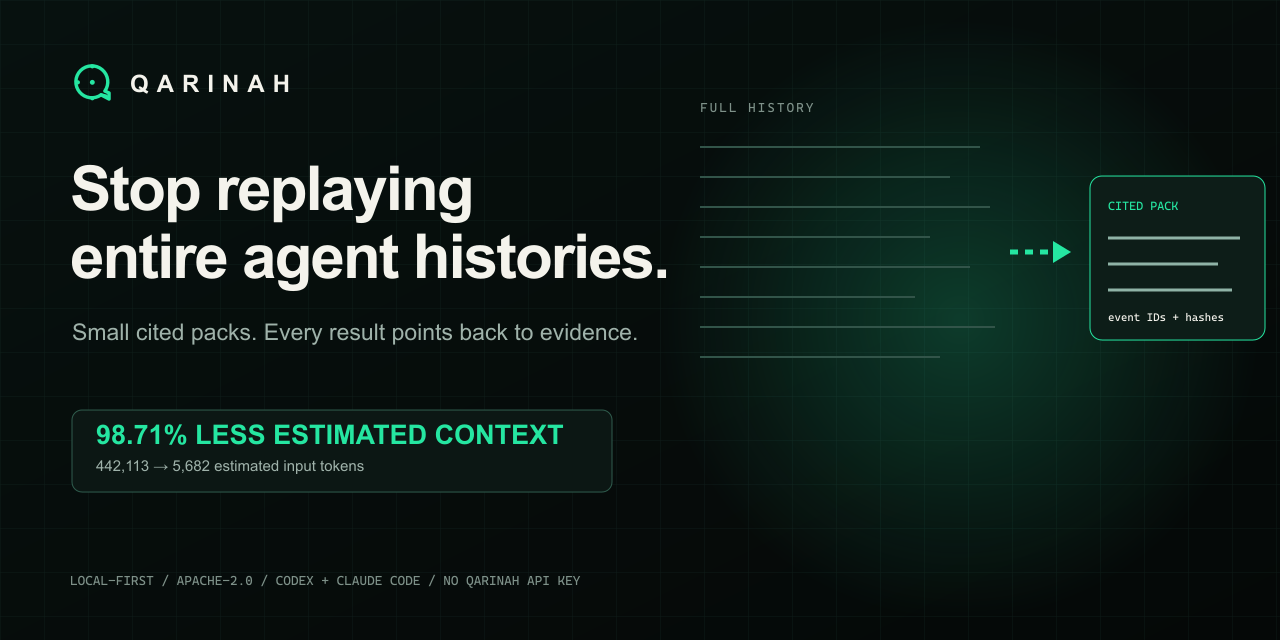
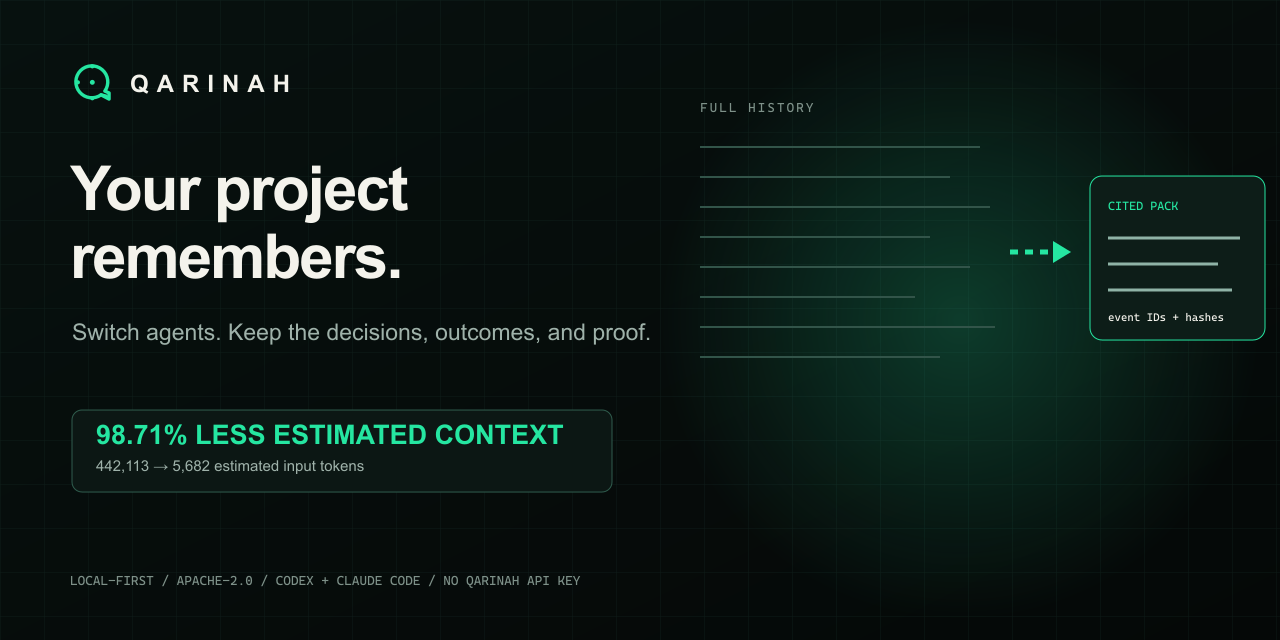
docs: make Qarinah promise memorable (#82)

Changed region(s): [[0.0625, 0.25, 0.5312, 0.4688], [0.0625, 0.5, 0.5, 0.5312]]

diff --git a/docs/launch/PLATFORM-COPY.md b/docs/launch/PLATFORM-COPY.md
@@ -4,11 +4,11 @@ Do not publish these drafts until the gates in [../LAUNCH.md](../LAUNCH.md) are 
 
 ## Canonical descriptions
 
-**Headline:** Switch coding agents without starting over.
+**Headline:** Your project remembers, even when your coding agent changes.
 
-**Category:** The evidence-linked cross-agent context engine for software projects.
+**Category:** Evidence-linked project memory that stays with your code.
 
-**Tagline:** Verified handoffs between coding agents.
+**Tagline:** Switch agents. Keep the decisions, outcomes, and proof.
 
 **Proof tagline:** Nearly 99% less repeated project context. Every selected memory points back to its source.
 
@@ -16,9 +16,9 @@ Do not publish these drafts until the gates in [../LAUNCH.md](../LAUNCH.md) are 
 
 **Coding value line:** Less replay. More room for current code, tools, and cited project memory.
 
-**GitHub About:** Universal context engine for software projects with verified, cited handoffs between coding agents.
+**GitHub About:** Your project remembers across Codex, Claude Code, Cursor, and compatible tools - with compact, cited handoffs.
 
-**npm description:** Cross-agent context engine with verified handoffs and 98.71% less estimated repeated context in its published benchmark.
+**npm description:** Project memory that follows your code across agents, with cited handoffs and 98.71% less estimated repeated context in its published benchmark.
 
 **Short:** Qarinah is a universal context engine for software projects. It records permitted activity and explicit decisions in an evidence-linked ledger, then compiles a small cited handoff for the next agent. Maqam is an optional governance integration, not a requirement.
 
@@ -42,9 +42,9 @@ Possible factual title to rewrite:
 
 **Name:** Qarinah
 
-**Tagline:** Use your biggest coding model with compact, cited project memory
+**Tagline:** Your project remembers when your coding agent changes
 
-**Description (under 260 characters):** Switch coding agents without starting over. Qarinah is the evidence-linked cross-agent context engine for software projects. Works locally with Codex, Claude Code, Cursor, CLI, and compatible MCP clients.
+**Description (under 260 characters):** Switch agents without restarting the story. Qarinah keeps compact, cited project memory beside your code for Codex, Claude Code, Cursor, CLI, and compatible MCP clients.
 
 **Topics:** Developer Tools, Artificial Intelligence, Open Source, Productivity
 
@@ -100,6 +100,6 @@ I would value a reproducible missing-evidence case or a critique of the consent,
 
 ## YouTube
 
-**Title:** Stop replaying agent histories | Qarinah in 60 seconds
+**Title:** Your project remembers | Qarinah in 60 seconds
 
 **Description:** Qarinah records permitted project activity and explicit decisions in a local evidence-linked ledger, then compiles a small cited context pack for the next agent task. This demo shows opt-in, one decision, project scan, deterministic build, direct-evidence retrieval, and doctor verification. Benchmark method and limitations: [ADD PUBLIC URL AFTER RELEASE]

diff --git a/docs/LAUNCH.md b/docs/LAUNCH.md
@@ -1,12 +1,12 @@
 # Qarinah launch runbook
 
-Qarinah 0.1.0 is the first stable open-source release. Publish only the exact artifact produced from the reviewed release commit, then verify the public package, tag, provenance, website, and plugin installs against that identity.
+Qarinah 0.1.0 was the first stable open-source release. For every later release, publish only the exact artifact produced from the reviewed release commit, then verify the public package, tag, provenance, website, and plugin installs against that identity.
 
 ## Launch message
 
-> Stop replaying entire agent histories.
+> Your project remembers, even when your coding agent changes.
 
-Switch coding agents without starting over. Qarinah is the evidence-linked cross-agent context engine for software projects. It turns permitted project activity and explicit decisions into small, cited handoff packs. It used 98.71% less estimated context than full-history replay while keeping every required target in the top five with direct evidence coverage. The estimate is `ceil(characters / 4)`, not provider billing or a universal cost claim.
+Switch agents. Keep the decisions, outcomes, and proof. Qarinah keeps one compact, cited project memory beside your code. Its published six-task benchmark used 98.71% less estimated context than full-history replay while keeping every required target in the top five with direct evidence coverage. The estimate is `ceil(characters / 4)`, not provider billing or a universal cost claim.
 
 The complete channel copy, media assignments, and claims gate are in [`docs/launch/`](launch/README.md).
 
@@ -50,7 +50,8 @@ The complete channel copy, media assignments, and claims gate are in [`docs/laun
 
 Use:
 
-- "Stop replaying entire agent histories."
+- "Your project remembers, even when your coding agent changes."
+- "Switch agents. Keep the decisions, outcomes, and proof."
 - "Qarinah - less context. More proof."
 - "Small cited context packs instead of entire transcripts."
 - "Local-first and no Qarinah API key."

diff --git a/README.md b/README.md
@@ -1,14 +1,13 @@
 <p align="center">
-  <img src="assets/brand/qarinah-mark.svg" width="112" alt="Qarinah logo">
+  <img src="assets/launch/qarinah-social-preview.svg" width="100%" alt="Qarinah - your project remembers across coding agents">
 </p>
 
 <h1 align="center">Qarinah</h1>
 
-<p align="center"><em>Switch coding agents without starting over.</em></p>
-<p align="center"><strong>The evidence-linked cross-agent context engine for software projects.</strong></p>
+<p align="center"><em>Switch agents. Keep the decisions, outcomes, and proof.</em></p>
 
 <p align="center">
-  Qarinah lets Codex, Claude Code, Cursor, and other coding agents continue the same project using a shared, cited record of decisions, outcomes, code relationships, and current evidence.
+  Qarinah keeps one compact, cited project memory beside your code, so Codex, Claude Code, Cursor, and compatible tools can continue from verified context instead of starting from zero.
 </p>
 
 <p align="center">
@@ -28,7 +27,9 @@
 </p>
 
 <p align="center">
-  <strong>Verified handoffs between coding agents.</strong>
+  <strong>98.71% less estimated repeated context in the published six-task benchmark.</strong><br>
+  442,113 &rarr; 5,682 estimated input-context tokens, with every required target directly covered in the top five.
+  <a href="docs/BENCHMARKS.md">Inspect the method and limits.</a>
 </p>
 
 ```sh
@@ -43,12 +44,6 @@ npx qarinah setup . --codex --claude --cursor --capture content --allow-query
 
 <p align="center">
   Run the setup command once from a repository. It installs project-local integrations and consent-gated MCP retrieval for that exact workspace. Qarinah works as an independent local tool; Maqam is an optional governance integration for higher-authority workflows.
-</p>
-
-<p align="center">
-  <strong>98.71% fewer estimated repeated-project-context tokens - 77.81:1 compression.</strong><br>
-  442,113 &rarr; 5,682 estimated input tokens.
-  <a href="docs/BENCHMARKS.md">Reproduce the published benchmark.</a>
 </p>
 
 ---

diff --git a/docs/BENCHMARKS.md b/docs/BENCHMARKS.md
@@ -2,6 +2,20 @@
 
 Qarinah reports context-volume and retrieval-regression measurements. It does not convert character estimates into claims about provider billing, model reasoning, answer correctness, latency on every machine, or total application cost.
 
+## Publication and evidence map
+
+Verified on 2026-08-07:
+
+| Evidence | What it establishes | GitHub | npm 0.1.4 | qarinah.io | Zenodo paper v1.0 |
+| --- | --- | --- | --- | --- | --- |
+| Six-task software fixture | Estimated repeated-context volume and direct top-five coverage | Published | Published | Published | Published |
+| Long-document fixture | Fixed-budget retrieval, supported-answer preservation, and unsupported-control rejection | Published | Published | Published | Published |
+| Cross-session continuation fixture | Evidence-linked summary retrieval, a complete audit pack, and a compact model-facing capsule | Published | Published | Published | Not included; it postdates paper v1.0 |
+| SWE-bench Lite development study | Retrieval ranking, temporal leakage, repository isolation, and a conservative development gate on real repositories | Published | Published | Published | Not included; it postdates paper v1.0 |
+| SWE-bench Verified confirmatory study | Provider usage, patch resolution, cost, and human-rated quality | Protocol only | Protocol only | Protocol only | No final result; the study has not run |
+
+The SWE-bench work follows the official public dataset and evaluation framing, but the completed phase is a retrieval study rather than an official patch-resolution score. The frozen 40-task provider-backed study remains unexecuted, so Qarinah does not claim improved SWE-bench resolve rate or provider-native token savings.
+
 ## Software-task context benchmark
 
 Command:

diff --git a/docs/launch/README.md b/docs/launch/README.md
@@ -1,14 +1,14 @@
-# Qarinah 0.1.0 launch kit
+# Qarinah public launch kit
 
-Last verified: 2026-07-22.
+Last verified: 2026-08-07.
 
-This kit is prepared but blocked from publication until every gate in [../LAUNCH.md](../LAUNCH.md) is complete. Qarinah is currently a private repository and is not available from the public npm registry.
+Qarinah is public on GitHub, npm, and qarinah.io. Use this kit for reviewed launch copy and keep every benchmark qualification beside the result. Future package or website changes still follow the gates in [../LAUNCH.md](../LAUNCH.md).
 
 ## The one-line story
 
-> Stop replaying entire agent histories.
+> Your project remembers, even when your coding agent changes.
 
-Qarinah is the evidence-linked cross-agent context engine for software projects. It keeps permitted project activity and explicit decisions in a local evidence-linked record, then returns only the small cited pack a later agent needs for a verified handoff.
+Switch agents. Keep the decisions, outcomes, and proof. Qarinah keeps permitted project activity and explicit decisions in a local evidence-linked record, then returns only the small cited pack a later agent needs for a verified handoff.
 
 ## Proof line
 

diff --git a/PRODUCT.md b/PRODUCT.md
@@ -10,7 +10,7 @@ Developers and teams using Codex, Claude Code, command-line agents, and compatib
 
 ## Product Purpose
 
-Qarinah is evidence-linked project memory for coding agents - compact enough to save context, inspectable enough to trust. It records permitted project events and explicit decisions, preserves their source identities in a verifiable ledger and graph, and compiles a small cited context pack for the current task. Success means less repeated context, visible provenance, portable project memory, and a clear failure when supporting evidence is absent.
+Your project remembers, even when the coding agent changes. Qarinah is evidence-linked project memory for coding agents - compact enough to save context, inspectable enough to trust. It records permitted project events and explicit decisions, preserves their source identities in a verifiable ledger and graph, and compiles a small cited context pack for the current task. Success means less repeated context, visible provenance, portable project memory, and a clear failure when supporting evidence is absent.
 
 ## Brand Personality
 

diff --git a/docs/ECOSYSTEM-LAUNCH.md b/docs/ECOSYSTEM-LAUNCH.md
@@ -34,9 +34,9 @@ Never describe a local candidate as published until the registry, tag, and publi
 
 ### Brand line
 
-> **Qarinah is the evidence-linked cross-agent context engine for software projects.**
+> **Qarinah is evidence-linked project memory that stays with your code.**
 
-This is the canonical Qarinah category line for GitHub, npm, the website, launch pages, and social profiles. **Switch coding agents without starting over.** is the product headline.
+This is the canonical Qarinah category line for GitHub, npm, the website, launch pages, and social profiles. **Your project remembers, even when your coding agent changes.** is the product headline. **Switch agents. Keep the decisions, outcomes, and proof.** is the supporting line.
 
 ### Current proof line
 

diff --git a/assets/launch/README.md b/assets/launch/README.md
@@ -4,7 +4,7 @@ The SVG files are the editable source of truth. Matching PNG files are exact-siz
 
 | Asset | Size | Use |
 | --- | ---: | --- |
-| `qarinah-social-preview` | 1280 x 640 | GitHub, Open Graph, X, LinkedIn |
+| `qarinah-social-preview` | 1280 x 640 | GitHub README hero, Open Graph, X, LinkedIn |
 | `qarinah-product-hunt-thumbnail` | 240 x 240 | Product Hunt thumbnail |
 | `qarinah-product-hunt-01-proof` | 1270 x 760 | Benchmark proof |
 | `qarinah-product-hunt-02-retrieval` | 1270 x 760 | Retrieval and citation explanation |
